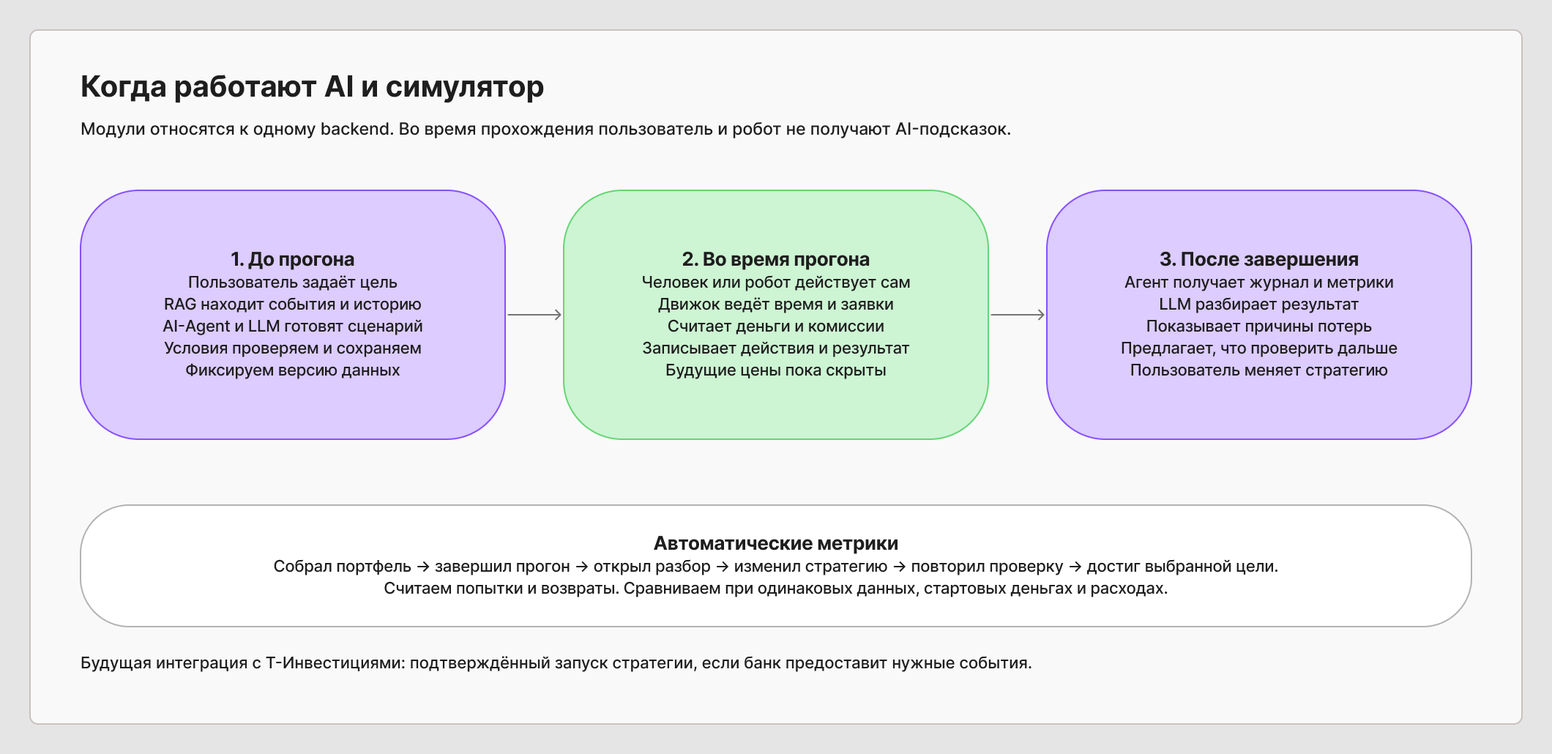
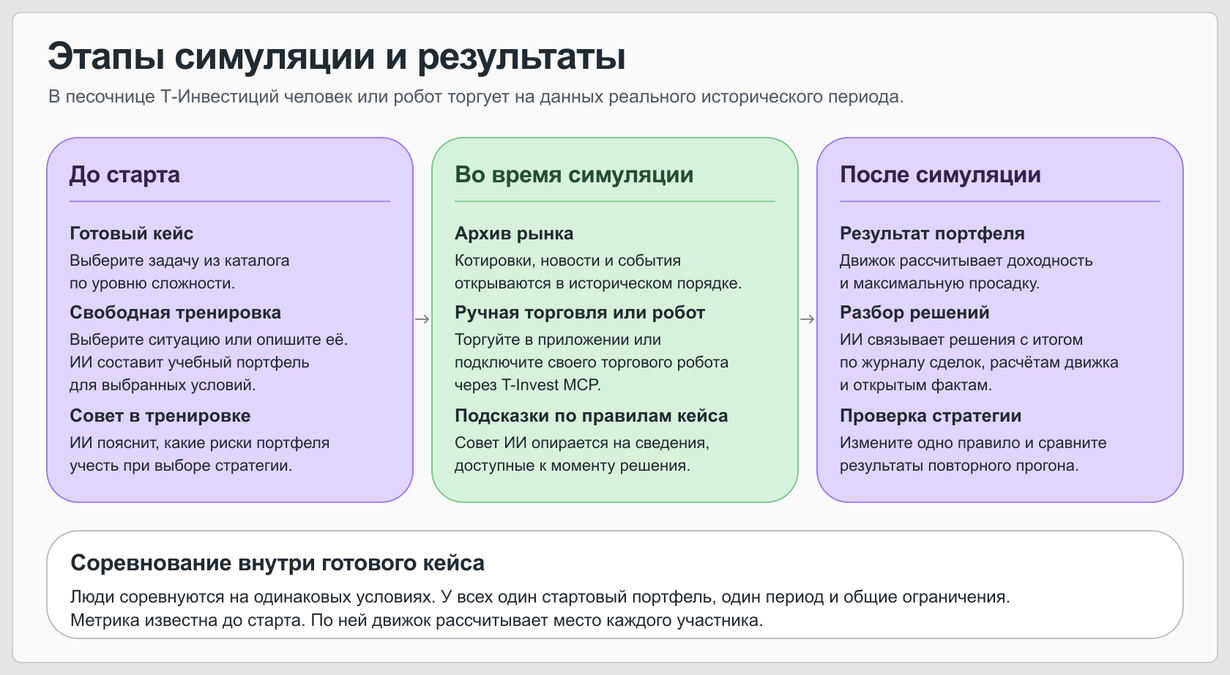
Обновить диаграммы исторической симуляции и добавить каталог учебных кейсов

diff --git a/docs/scenarios/README.md b/docs/scenarios/README.md
@@ -1,0 +1,37 @@
+# Справочник исторических кейсов
+
+Три черновика для песочницы. Даты и содержание публикаций проверены по первоисточникам. Стартовые доли, комиссии и ограничения — учебные условия. Доступность котировок по указанным бумагам и периодам в авторизованном T-Invest API ещё предстоит проверить. Перед открытием зачёта нужно зафиксировать версию котировок, календарь сессий, лоты и корпоративные действия, затем контрольным прогоном проверить достижимость целей.
+
+## 1. Снизить зависимость от одной компании · базовый
+
+6 марта 2025 года в 09:45 Московская биржа опубликовала результаты за 2024 год по МСФО. В начале кейса три четверти учебного портфеля вложены в акции самой биржи. [Сообщение Московской биржи](https://www.moex.com/n78255)
+
+- **Период и старт.** 5–14 марта 2025 года, 1 000 000 ₽. MOEX — 75%, SBER — 15%, рубли — 10%.
+- **Задача.** Перестроить портфель к концу периода. Целевые доли MOEX и SBER — по 45%, рублей — 10%. Доступны до четырёх исполненных заявок.
+- **Зачёт.** На последнем закрытии каждая доля должна отличаться от цели не более чем на 3 процентных пункта. Среди прошедших выше место у участника с меньшей суммой абсолютных отклонений трёх долей от цели. При равенстве выше тот, кто заплатил меньше комиссий.
+
+## 2. Подготовить резерв к сроку · средний
+
+25 октября 2024 года в 13:30 Банк России объявил о повышении ключевой ставки до 21%. В этом кейсе у владельца портфеля заранее известна дата, к которой потребуются свободные деньги. [Пресс-релиз Банка России](https://www.cbr.ru/press/PR/?file=25102024_133000Key.htm)
+
+- **Период и старт.** 23–31 октября 2024 года, 1 000 000 ₽. SBER — 55%, LKOH — 35%, рубли — 10%.
+- **Задача.** Собрать 250 000 ₽ свободными деньгами к закрытию 29 октября и сохранять этот резерв до финиша. Деньги остаются на счёте. На каждом закрытии общая доля акций должна составлять не менее 65%.
+- **Зачёт.** Ранжируются участники, выполнившие оба условия. Выше место у участника с большей итоговой стоимостью портфеля после комиссий. При равенстве выше тот, кто заплатил меньше комиссий.
+
+## 3. Ограничить просадку при резком изменении ставки · сложный
+
+15 августа 2023 года в 10:30 Банк России объявил о повышении ключевой ставки на 3,5 процентного пункта, до 12%. Портфель начинает период с двух крупных позиций. Участник может менять их соотношение и размер денежного резерва. [Пресс-релиз Банка России](https://www.cbr.ru/press/pr/?file=15082023_103000Key.htm)
+
+- **Период и старт.** 11–25 августа 2023 года, 1 000 000 ₽. SBER — 50%, GAZP — 40%, рубли — 10%.
+- **Задача.** Свести к минимуму наибольшее падение стоимости портфеля от ранее достигнутого максимума. На каждом закрытии в акциях должно оставаться не менее 75% портфеля, а доля одной бумаги не должна превышать 65%.
+- **Зачёт.** Среди участников, соблюдавших ограничения, выше место у участника с меньшей максимальной просадкой в процентах. Для каждого закрытия считаем падение от наивысшей стоимости портфеля с начала прогона, включая начальную оценку. Из этих падений берём наибольшее. При равенстве выше тот, у кого больше итоговая стоимость портфеля после комиссий.
+
+## Общие правила зачёта · предложение
+
+У каждого кейса и каждой его версии свой рейтинг. У всех участников одинаковые период, версии котировок и новостей, начальные позиции в лотах и рублях, комиссия и правила исполнения. Стартовые доли переводятся в целые лоты по первому закрытию периода с округлением вниз, остаток сохраняется в рублях. Торговать можно двумя указанными акциями за собственные средства.
+
+Шаг равен одной основной торговой сессии. После её закрытия участник видит цены и публикации, вышедшие к этому моменту. Рыночная заявка исполняется по исторической цене открытия следующей основной сессии. Учебная комиссия — 0,05% суммы каждого исполнения. Итоговая стоимость включает свободные рубли и оценку акций по последнему закрытию. В случае равенства обоих показателей участники делят место. Участники, нарушившие условие зачёта, получают разбор без места в рейтинге.
+
+Первый запуск версии для участника — официальный, с одной и той же для всех карточкой задания и без индивидуальных подсказок. Прерванный прогон можно продолжить с сохранённого шага. Если участник отказывается от него, зачётная попытка исчерпана. Повторные прогоны доступны для тренировки с подсказками и личного сравнения. При необходимости можно вести отдельные зачёты для человека и внешнего робота.
+
+Даты и котировки исторических эпизодов общедоступны. Место в таблице показывает, насколько хорошо участник выполнил именно это задание по его правилам. Для проверки навыка на незнакомом эпизоде потребуется отдельный тренировочный кейс.

diff --git a/README.md b/README.md
@@ -2,7 +2,7 @@
 
 Проект архитектуры MVP для Т-Инвестиции Premarket, задача 11. Здесь находятся диаграммы и технические решения для обсуждения разработки. Приложение пока не реализовано.
 
-Человек или торговый робот собирает виртуальный портфель и проверяет стратегию на выбранном сценарии рынка. Наш AI-агент готовит сценарий до запуска и разбирает результат после завершения. Во время симуляции решения принимает участник, а деньги и исполнение заявок считает движок.
+Человек или торговый робот собирает виртуальный портфель и проверяет стратегию на выбранном сценарии рынка. Поиск подбирает реальные события и исторические котировки. ИИ может составить стартовый портфель для тренировки и дать советы по результатам. Во время симуляции решения принимает участник, а деньги и исполнение заявок считает движок.
 
 ## Диаграммы
 
@@ -29,12 +29,12 @@
 
 ## Бизнес-сценарий
 
-Сохранена ранее добавленная командой схема проверки стратегии на исторических данных: [PlantUML](docs/diagrams/business-case.puml), [SVG](docs/diagrams/business-case.svg).
+Схема проверки стратегии на исторических данных: [PlantUML](docs/diagrams/business-case.puml), [SVG](docs/diagrams/business-case.svg).
 
-Пользователь выбирает кейс или описывает ситуацию помощнику. Система поэтапно раскрывает данные, человек или робот принимает решения, затем получает журнал и разбор. Техническая граница MVP: T-Invest MCP поставляет рыночные данные; команды в наш симулятор идут через общий API. Подключение существующего робота без изменения его MCP-инструментов потребует отдельного адаптера. Бизнес-схема сохранена как исходная постановка.
+Пользователь выбирает готовый кейс или описывает ситуацию для свободной тренировки. В соревновании участники получают одинаковый портфель и исторический период. [Справочник исторических кейсов и правила зачёта](docs/scenarios/README.md). Система поэтапно раскрывает данные, человек или робот принимает решения, затем получает журнал и разбор. Техническая граница MVP: T-Invest MCP поставляет рыночные данные; команды в наш симулятор идут через общий API. Подключение существующего робота без изменения его MCP-инструментов потребует отдельного адаптера.
 
 ## Концептуальные схемы
 
-- [Первоначальная схема компонентов из FigJam](docs/architecture/sandbox-architecture.png).
-- [Первоначальная схема этапов и метрик](docs/architecture/sandbox-lifecycle.png).
-- [Редактируемая доска FigJam](https://www.figma.com/board/udNCfmxlbHqwijvXoh01XK).
+- [Компоненты и интеграции](docs/architecture/sandbox-architecture.png).
+- [Этапы симуляции и результаты](docs/architecture/sandbox-lifecycle.png).
+- [Первоначальный эскиз в FigJam](https://www.figma.com/board/udNCfmxlbHqwijvXoh01XK).

diff --git a/docs/architecture/architecture.md b/docs/architecture/architecture.md
@@ -34,15 +34,15 @@ T-Invest MCP в этом проекте является внешним исто
 | --- | --- | --- |
 | `search_events` | События по теме, активам, датам; ссылка и время публикации | Подготовка |
 | `load_history` | Цены и параметры из конкретной версии данных | Подготовка |
-| `save_scenario` | Сохранить ScenarioSpec и готовый учебный ценовой путь | Подготовка |
+| `save_scenario` | Сохранить ScenarioSpec, стартовый портфель и ссылку на версию исторических данных | Подготовка |
 | `get_run_result` | Получить уже рассчитанные кодом метрики | После FINISHED |
 | `get_run_journal` | Получить действия, исполнения и комиссии с идентификаторами | После FINISHED |
 
 RAG в MVP использует фильтры и полнотекстовый поиск PostgreSQL. В контекст LLM попадают сами события и связанная история, а также источники и даты. Качество такой выдачи ещё предстоит проверить на выбранных событиях; переход к embeddings является отдельным решением, если простой поиск окажется недостаточным.
 
-LLM может сформировать учебные события и параметры искусственного сценария, например падение и восстановление цены. Сохраняем готовую траекторию и версию правил до старта. Повторный запрос к модели не нужен для воспроизведения. Исторические данные и искусственные цены имеют разные версии и признаки происхождения. Учебный сценарий не является прогнозом реакции реального рынка.
+Для свободной тренировки RAG подбирает исторический эпизод по описанию. LLM может сформировать стартовый портфель. Котировки поступают из T-Invest API, события — из публикаций с известным временем выхода. До запуска сохраняем период, исходный портфель, версию данных и правила исполнения. Для конкурсного кейса эти параметры общие для всех участников его версии.
 
-Во время прогона наш агент не даёт подсказок и не выполняет команды. После финиша он получает готовые числа и журнал, объясняет результат со ссылками на действия и предлагает следующее изменение. Недоступность LLM не отменяет завершённую симуляцию: численный отчёт остаётся доступен.
+В личной тренировке агент по запросу даёт советы на основании данных, уже открытых к текущему шагу. В соревновании доступность подсказок задают правила кейса. Торговые команды подаёт участник или его внешний робот. После финиша он получает готовые числа и журнал, объясняет результат со ссылками на действия и предлагает следующее изменение. Недоступность LLM не отменяет завершённую симуляцию: численный отчёт остаётся доступен.
 
 ## Детерминированное исполнение
 

diff --git a/docs/architecture/README.md b/docs/architecture/README.md
@@ -16,12 +16,12 @@ npm run diagrams
 
 Для уже установленного окружения доступны переменные `PLAYWRIGHT_MODULE`, `MERMAID_BUNDLE`, `CHROMIUM_EXECUTABLE`. Это пути к библиотеке Playwright, bundle Mermaid и Chromium соответственно. Версии библиотек зафиксированы в корневом `package.json`.
 
-Перед публикацией проверяем: читаемость подписей, направление связей, один backend на container-диаграмме, отсутствие AI-подсказок в sequence прогона и совпадение сущностей с контрактами.
+Перед публикацией проверяем: читаемость подписей, направление связей, один backend на container-диаграмме, соблюдение правил подсказок выбранного кейса и совпадение сущностей с контрактами.
 
 ## Концептуальные схемы команды
 
 - [Компоненты и интеграции, PNG](sandbox-architecture.png).
 - [Этапы симуляции и метрики, PNG](sandbox-lifecycle.png).
-- [Редактируемая доска в FigJam](https://www.figma.com/board/udNCfmxlbHqwijvXoh01XK).
+- [Первоначальный эскиз в FigJam](https://www.figma.com/board/udNCfmxlbHqwijvXoh01XK).
 
-Эти схемы сохранены вместе с добавленными техническими диаграммами.
+Редактируемые исходники концептуальных схем: [компоненты](sandbox-architecture.svg) и [этапы симуляции](sandbox-lifecycle.svg). Правила и примеры заданий приведены в [справочнике кейсов](../scenarios/README.md).
